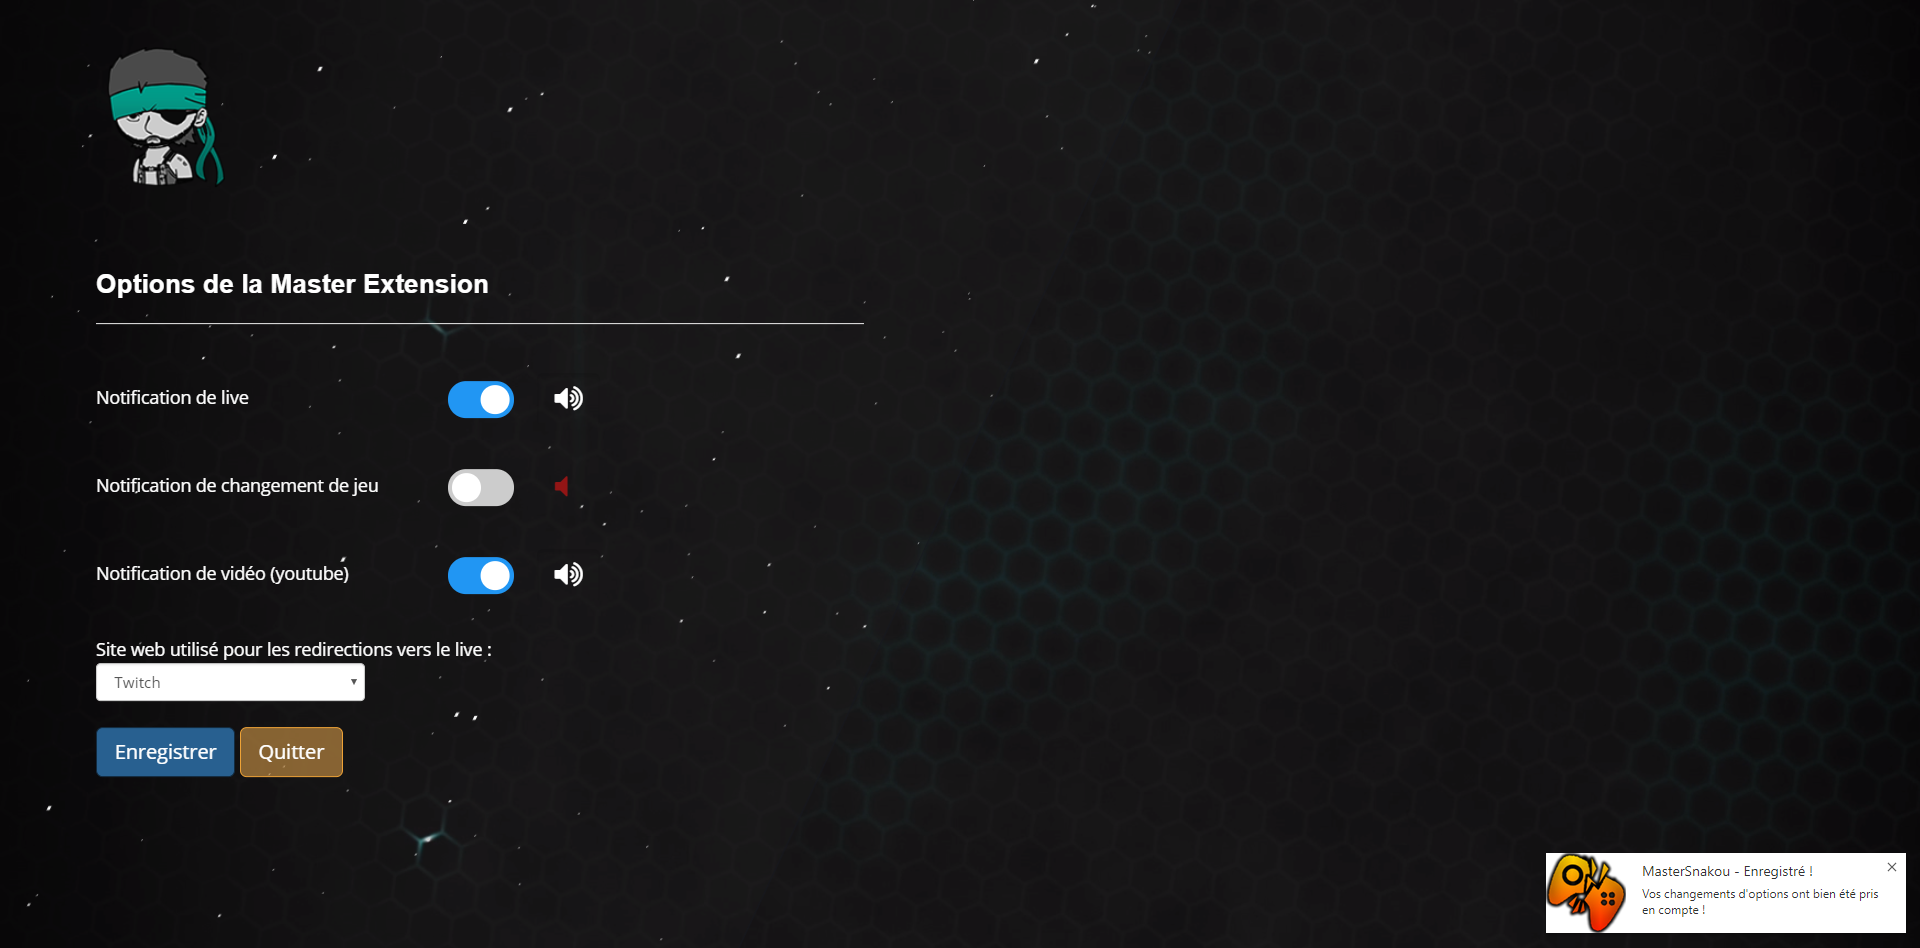
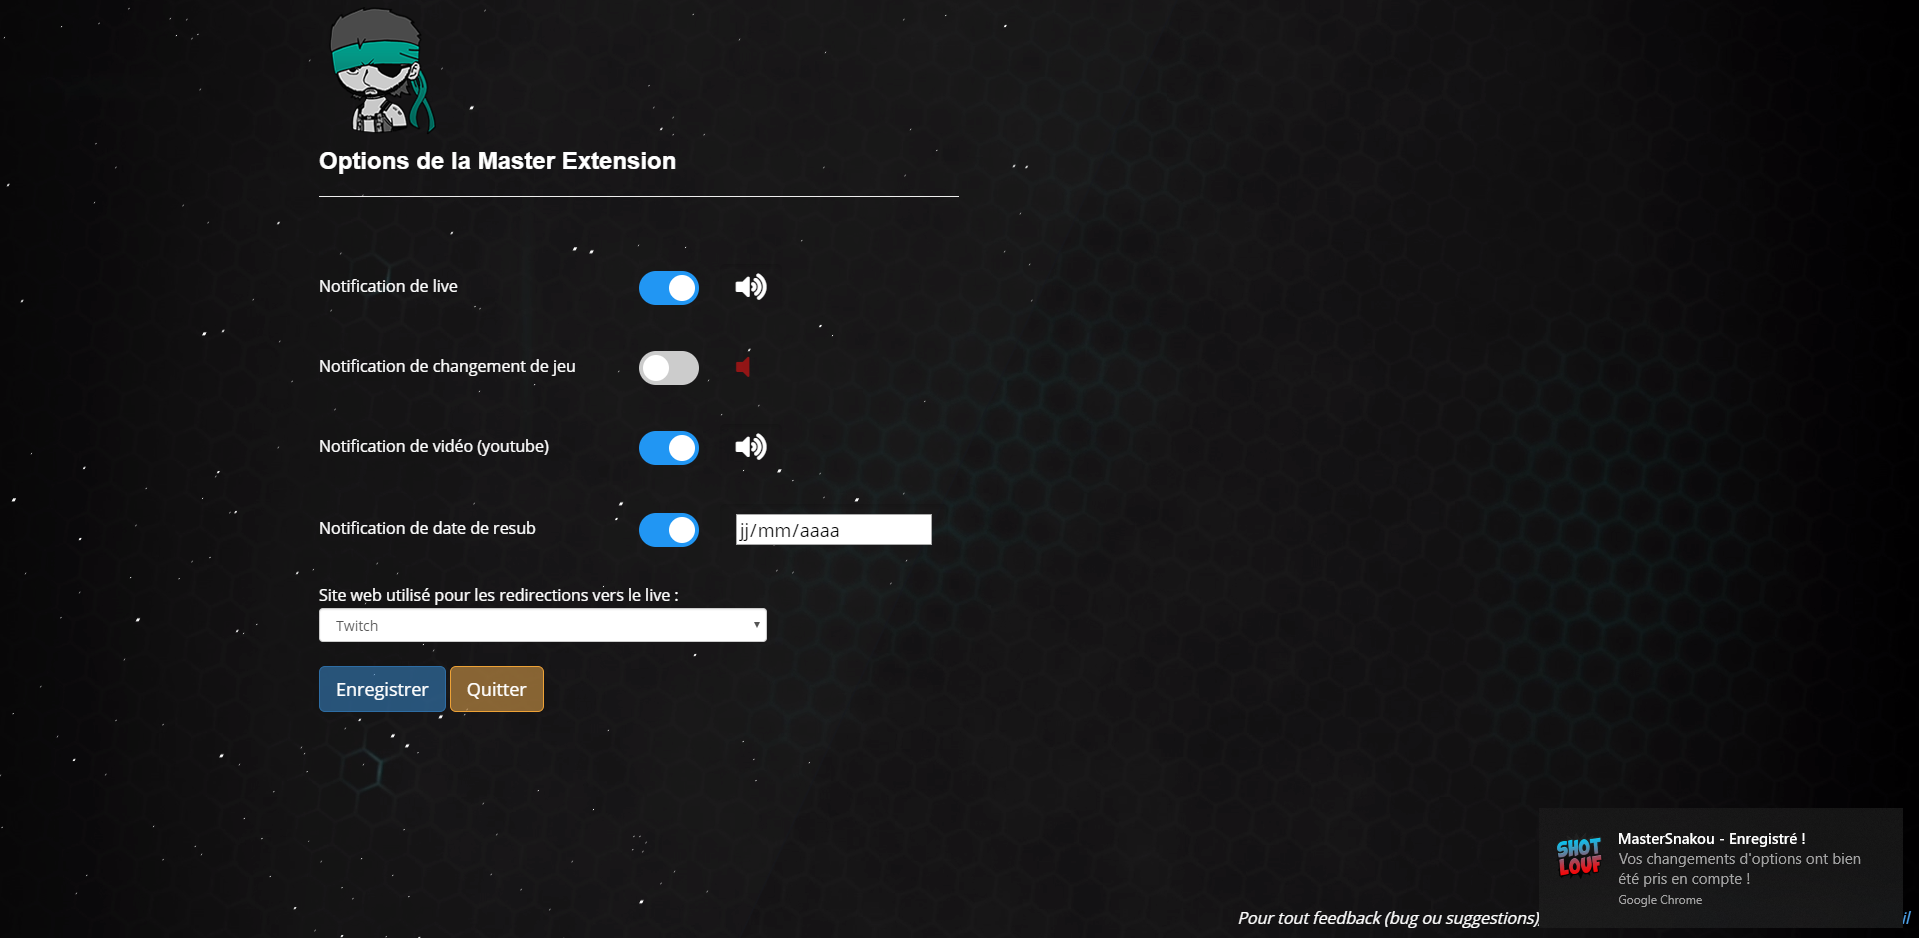
Mise à jour 2.7.6 - resub & css

diff --git a/Sans PHP/css/twitch-event.css b/Sans PHP/css/twitch-event.css
@@ -8,8 +8,9 @@
     background-color: #108778;
 }
 
-/* Green color for button and text */
-.chat-buttons-container .button.js-chat-buttons__submit {
+ /* Green color for button and text */
+-.chat-buttons-container .button.js-chat-buttons__submit {
+
     background-color: #019985 !important;
 }
 
@@ -17,7 +18,7 @@
     background: #029986 !important;
 }
 
-.ember-chat .top-notification.resub-notification {
+.chat-room__content .top-notification.resub-notification {
     background-color: #029986 !important;
 }
 
@@ -26,7 +27,7 @@
     color: #FFFFFF !important;
 }
 
-.ember-chat .top-notification.resub-notification {
+.chat-room__content .top-notification.resub-notification {
     background-color: #00796A !important;
     cursor: default;
 }
@@ -35,19 +36,20 @@
     fill: #029986 !important;
 }
 
-.ember-chat .blc-notification, .ember-chat .sticky-message {
+.chat-room__content .blc-notification, .chat-room__content .sticky-message {
     background-color: #014D44 !important;
 }
 
-.ember-chat .blc-notification .broadcaster-language-notification, .ember-chat .blc-notification .message-content, .ember-chat .sticky-message .broadcaster-language-notification, .ember-chat .sticky-message .message-content {
+.chat-room__content .blc-notification .broadcaster-language-notification, .chat-room__content .blc-notification .message-content, .chat-room__content .sticky-message .broadcaster-language-notification, .chat-room__content .sticky-message .message-content {
     color: #FBFBFB !important;
 }
+
 
 #channel-prompt, .upsell-banner {
     border-left: 5px solid #029986 !important;
 }
 
-.chat-container.dark .button.glyph svg path, .app-main.theatre .chat-container .button.glyph svg path, .chat-container.dark .follow-button:not(.ember-follow) .glyph.follow svg path, .follow-button:not(.ember-follow) .chat-container.dark .glyph.follow svg path, .app-main.theatre .chat-container .follow-button:not(.ember-follow) .glyph.follow svg path, .follow-button:not(.ember-follow) .app-main.theatre .chat-container .glyph.follow svg path, .chat-container.dark .button.glyph-only svg path, .app-main.theatre .chat-container .button.glyph-only svg path, .chat-container.dark .follow-button:not(.ember-follow) .glyph-only.follow svg path, .follow-button:not(.ember-follow) .chat-container.dark .glyph-only.follow svg path, .app-main.theatre .chat-container .follow-button:not(.ember-follow) .glyph-only.follow svg path, .follow-button:not(.ember-follow) .app-main.theatre .chat-container .glyph-only.follow svg path, .chat-container.force-dark .button.glyph svg path, .chat-container.force-dark .follow-button:not(.ember-follow) .glyph.follow svg path, .follow-button:not(.ember-follow) .chat-container.force-dark .glyph.follow svg path, .chat-container.force-dark .button.glyph-only svg path, .chat-container.force-dark .follow-button:not(.ember-follow) .glyph-only.follow svg path, .follow-button:not(.ember-follow) .chat-container.force-dark .glyph-only.follow svg path, .ember-chat-container.dark .button.glyph svg path, .app-main.theatre .ember-chat-container .button.glyph svg path, .ember-chat-container.dark .follow-button:not(.ember-follow) .glyph.follow svg path, .follow-button:not(.ember-follow) .ember-chat-container.dark .glyph.follow svg path, .app-main.theatre .ember-chat-container .follow-button:not(.ember-follow) .glyph.follow svg path, .follow-button:not(.ember-follow) .app-main.theatre .ember-chat-container .glyph.follow svg path, .ember-chat-container.dark .button.glyph-only svg path, .app-main.theatre .ember-chat-container .button.glyph-only svg path, .ember-chat-container.dark .follow-button:not(.ember-follow) .glyph-only.follow svg path, .follow-button:not(.ember-follow) .ember-chat-container.dark .glyph-only.follow svg path, .app-main.theatre .ember-chat-container .follow-button:not(.ember-follow) .glyph-only.follow svg path, .follow-button:not(.ember-follow) .app-main.theatre .ember-chat-container .glyph-only.follow svg path, .ember-chat-container.force-dark .button.glyph svg path, .ember-chat-container.force-dark .follow-button:not(.ember-follow) .glyph.follow svg path, .follow-button:not(.ember-follow) .ember-chat-container.force-dark .glyph.follow svg path, .ember-chat-container.force-dark .button.glyph-only svg path, .ember-chat-container.force-dark .follow-button:not(.ember-follow) .glyph-only.follow svg path, .follow-button:not(.ember-follow) .ember-chat-container.force-dark .glyph-only.follow svg path {
+.chat-container.dark .button.glyph svg path, .app-main.theatre .chat-container .button.glyph svg path, .chat-container.dark .follow-button:not(.ember-follow) .glyph.follow svg path, .follow-button:not(.ember-follow) .chat-container.dark .glyph.follow svg path, .app-main.theatre .chat-container .follow-button:not(.ember-follow) .glyph.follow svg path, .follow-button:not(.ember-follow) .app-main.theatre .chat-container .glyph.follow svg path, .chat-container.dark .button.glyph-only svg path, .app-main.theatre .chat-container .button.glyph-only svg path, .chat-container.dark .follow-button:not(.ember-follow) .glyph-only.follow svg path, .follow-button:not(.ember-follow) .chat-container.dark .glyph-only.follow svg path, .app-main.theatre .chat-container .follow-button:not(.ember-follow) .glyph-only.follow svg path, .follow-button:not(.ember-follow) .app-main.theatre .chat-container .glyph-only.follow svg path, .chat-container.force-dark .button.glyph svg path, .chat-container.force-dark .follow-button:not(.ember-follow) .glyph.follow svg path, .follow-button:not(.ember-follow) .chat-container.force-dark .glyph.follow svg path, .chat-container.force-dark .button.glyph-only svg path, .chat-container.force-dark .follow-button:not(.ember-follow) .glyph-only.follow svg path, .follow-button:not(.ember-follow) .chat-container.force-dark .glyph-only.follow svg path, .chat-room__content-container.dark .button.glyph svg path, .app-main.theatre .chat-room__content-container .button.glyph svg path, .chat-room__content-container.dark .follow-button:not(.ember-follow) .glyph.follow svg path, .follow-button:not(.ember-follow) .chat-room__content-container.dark .glyph.follow svg path, .app-main.theatre .chat-room__content-container .follow-button:not(.ember-follow) .glyph.follow svg path, .follow-button:not(.ember-follow) .app-main.theatre .chat-room__content-container .glyph.follow svg path, .chat-room__content-container.dark .button.glyph-only svg path, .app-main.theatre .chat-room__content-container .button.glyph-only svg path, .chat-room__content-container.dark .follow-button:not(.ember-follow) .glyph-only.follow svg path, .follow-button:not(.ember-follow) .chat-room__content-container.dark .glyph-only.follow svg path, .app-main.theatre .chat-room__content-container .follow-button:not(.ember-follow) .glyph-only.follow svg path, .follow-button:not(.ember-follow) .app-main.theatre .chat-room__content-container .glyph-only.follow svg path, .chat-room__content-container.force-dark .button.glyph svg path, .chat-room__content-container.force-dark .follow-button:not(.ember-follow) .glyph.follow svg path, .follow-button:not(.ember-follow) .chat-room__content-container.force-dark .glyph.follow svg path, .chat-room__content-container.force-dark .button.glyph-only svg path, .chat-room__content-container.force-dark .follow-button:not(.ember-follow) .glyph-only.follow svg path, .follow-button:not(.ember-follow) .chat-room__content-container.force-dark .glyph-only.follow svg path {
     fill: #019985 !important;
 }
 
@@ -129,7 +131,7 @@ div[data-sender='mastersnakou'] .badges .subscriber {
     background-size: 100% !important;
 }
 
-div[data-sender='moobot'] .line .bot, .ember-chat .badges .bot {
+div[data-sender='moobot'] .line .bot, .chat-room__content .badges .bot {
     background: url(http://i.imgur.com/wNAIYhh.png) !important;
     background-size: 100% !important;
 }
@@ -156,4 +158,27 @@ div[data-sender='cookkkie'] .from {
 div[data-sender='hellslicer'] .from {
     color: rgba(0, 99, 229, 1) !important;
     text-shadow: 0px 0px 10px rgba(0, 99, 229, 1);
+}
+
+/*Welcome back to reality*/
+
+/*Event de lancement de stream*/
+#event{
+	background-color: #014D44;
+	color: #FBFBFB;
+	text-align: center;
+	padding: 2px;
+}
+#event button{
+	padding: 2px;
+    margin: 2px;
+}
+
+/*Couleur des boutons*/
+.tw-button[data-test-selector='chat-send-button']{
+	 background-color: #019985 !important;
+}
+.tw-button[data-test-selector='follow-button'], .tw-button[data-test-selector='subscribe-button__dropdown']{
+	background: #029986 !important;
+    color: #FFFFFF !important;
 }

diff --git a/Sans PHP/js/background.js b/Sans PHP/js/background.js
@@ -352,46 +352,52 @@ function checkNewVideos() {
  */
 function checkReSubDate(){
 	//Récupération de la date de resub (prime)
-	chrome.storage.local.get(['RSnotif', 'dateRS', 'RSnotified', 'ecartMois'], function(result){
+	chrome.storage.local.get(['RSnotif', 'dateRS', 'RSnotified', 'ecartMoisRS', 'songRS'], function(result){
 		var resubTime = (result.dateRS != null ? result.dateRS : "");
 		
 		result.RSnotif = setBool(result.RSnotif, 0);
 		result.RSnotified = setBool(result.RSnotified, 0);
+		result.songRS = setBool(result.songRS, 1);
 		
 		//On force la copie de la valeur
 		let tmp = result.RSnotified == true;
-
+	
 		if(result.dateRS && resubTime != null){	
 			resubTime = new Date(result.dateRS);
 			let newEcart = Math.floor(getdiffJour(resubTime)/30);
-			var ToNotify =  newEcart > result.ecartMois;
+			var ToNotify =  newEcart > result.ecartMoisRS;
 
 			if(ToNotify)
 			{
-				if(!result.RSnotified){
+				if(result.RSnotified == 0){
 					chrome.notifications.create(channel+'notifRS', { 
-					type: "basic", 
-					title: titleRS, 
-					message: messageRS, 
-					iconUrl: iconRS
-				}, function(id) {
+						type: "basic", 
+						title: titleRS, 
+						message: messageRS, 
+						iconUrl: iconRS
+					}, function(id) {});
+					
 					//Si la notification est bien créée, on sauvegarde le fait que l'on a notifié l'utilisateur
-					result.RSnotified = true;
-					result.ecartMois = newEcart;
-				});
+					tmp = true;
+					result.ecartMoisRS = newEcart;
+						
+					if(result.songRS == 1)
+					{
+						new Audio(notifsoundRS).play();
+					}
 	
-				chrome.notifications.onClicked.addListener(function(id){
-					if(id==channel+"notifRS")
-						chrome.notifications.clear(id, function(){});
-				});
+					chrome.notifications.onClicked.addListener(function(id){
+						if(id==channel+"notifRS")
+							chrome.notifications.clear(id, function(){});
+					});
 				}
 			}
 			else{
-				result.RSnotified = false;
+				tmp = false;
 			}
-			
+
 			if(result.RSnotified != tmp)
-				chrome.storage.local.set({'RSnotified': result.RSnotified, 'ecartMois' : result.ecartMois }, function(){});
+				chrome.storage.local.set({'RSnotified': tmp, 'ecartMoisRS' : result.ecartMoisRS }, function(){});
 		}	
 	});
 }
@@ -407,8 +413,8 @@ check_stream();
 setInterval(checkNewVideos,60000);
 checkNewVideos();
 
-//Répétition de checkReSubDate() toutes les 6 heures
-setInterval(checkReSubDate,21600000);
+//Répétition de checkReSubDate() toutes les heures
+setInterval(checkReSubDate,3600000);
 checkReSubDate();
 
 /*On réinitialise l'icône dans la barre du navigateur*/

diff --git a/Sans PHP/js/options.js b/Sans PHP/js/options.js
@@ -179,12 +179,17 @@ function enregistrer()
 	var songV = ($('#songVC').is(':checked'))? 1: 0;
 	var notifRS = ($('#notifRSC').is(':checked'))? 1: 0;
 	var dateRS = $('#resubRSC').val();
+	var songRS = ($('#songRSC').is(':checked'))? 1: 0;
 	
 	var dateSub = new Date(dateRS);
 	var tmp = Math.floor(getdiffJour(dateSub)/30);
 	var ecartMois = tmp > 0 ? tmp : -1;
 	//Si on a modifié la date, on reset le système de "déja notifié"
 	var RSnotified = changedDate ? true :alreadyNotifiedRS;
+	
+	console.log(changedDate);
+	console.log(alreadyNotifiedRS);
+	console.log(RSnotified);
 	
 	/*Sauvegarde en local*/
 	chrome.storage.local.set({
@@ -198,8 +203,16 @@ function enregistrer()
 		'RSnotif': notifRS,
 		'dateRS': dateRS,
 		'ecartMoisRS': ecartMois,
-		'RSnotified' : RSnotified
-		}, function(){});
+		'RSnotified' : RSnotified,
+		'songRS' : songRS
+		}, function(){
+			
+			//if(changedDate)
+			//	checkReSubDate();
+			
+		});
+		
+		
 }
 
 

diff --git a/Sans PHP/html/options.html b/Sans PHP/html/options.html
@@ -86,6 +86,12 @@
                             <span class="slider round"></span>
                         </label>      
                     </div>
+					 <div id="songRS" class="trigger mute" data-toggle="buttons">
+                            <label class="song btn btn-lg active">
+                                <input type="checkbox" name="options" id="songRSC" autocomplete="off" checked />
+                                <i class="fas fa-volume-up"></i>
+                            </label>          
+                        </div>
                     <div id="resubRS" class="trigger mute" data-toggle="buttons">
                         <label class="resub btn btn-lg active">
                             <input type="date" name="options" id="resubRSC" autocomplete="off" checked />

diff --git a/Sans PHP/js/twitch-event.js b/Sans PHP/js/twitch-event.js
@@ -44,7 +44,7 @@ $(function() {
 					return false;
 				}
 				//Ne s'affiche plus
-				display_event($('.chat-room'), username);
+				display_event($('.chat-room__notifications'), username);
 			})
 		};
 
@@ -57,5 +57,6 @@ $(function() {
 			//console.log('New event !');
 			launch_event();
 		});
+		
 	}, 5000);	
 });

diff --git a/Sans PHP/js/config.js b/Sans PHP/js/config.js
@@ -52,7 +52,7 @@ OptionsIconUrl	    = "/images/shtlf.png";
 titleRS             = channel + " - Jour de resub !";
 messageRS           = "N'oublie pas de te resub !";
 iconRS              = "/images/rs.png";
-
+notifsoundRS		= "../mp3/youtube.mp3";
 
 /**
  * Configuration popup

diff --git a/Changelog.md b/Changelog.md
@@ -4,7 +4,11 @@ Un grand merci à toutes les personnes qui m'aident à tester cette extension, q
 
 ## A venir 
 
-*Pas de nouvelle version prévue*
+### Version 2.7.6
+
+* Correctifs sur la fonctionnalité de notification de resub
+* Retour de la fonctionnalité de partage lors du début du stream
+* Début de retour de la feuille de style personnalisant la page twitch du stream
 
 ## Version courante
 
